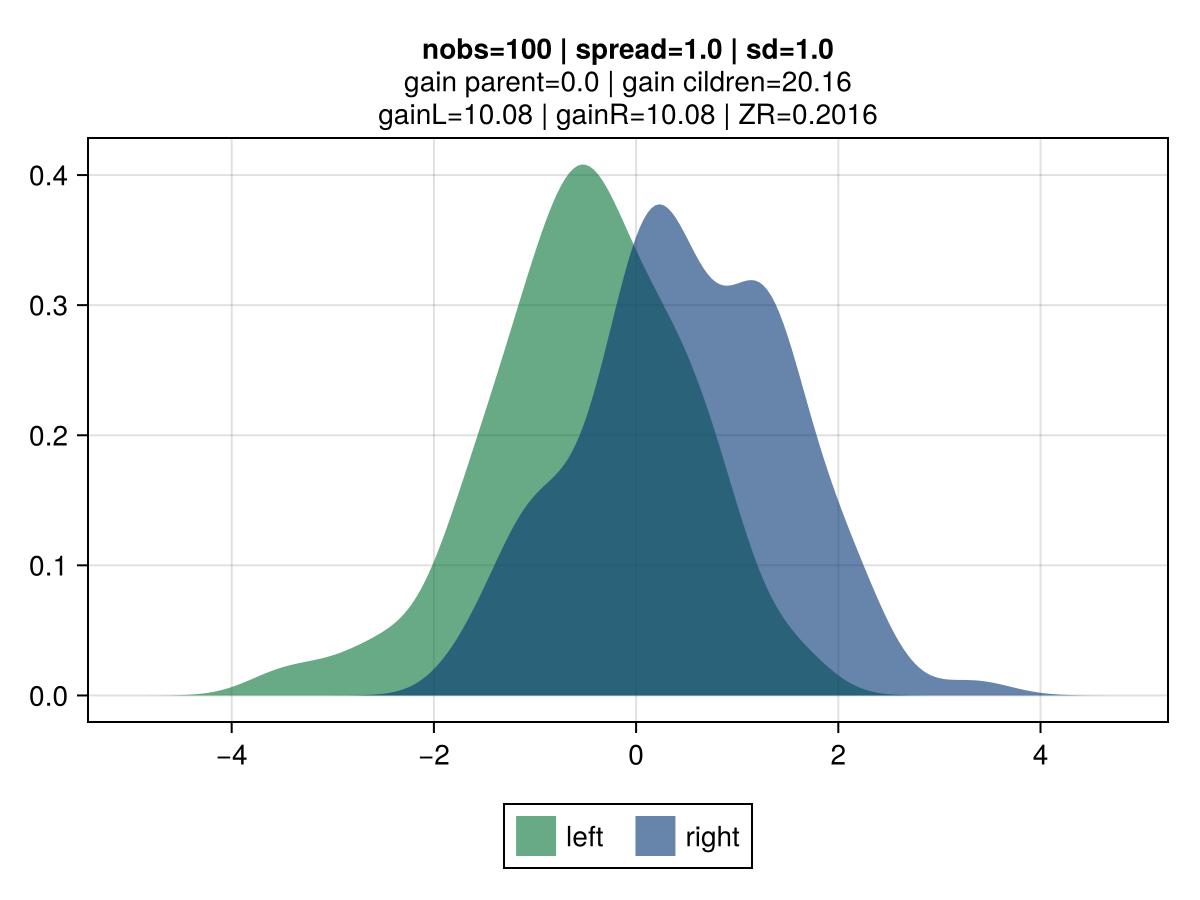
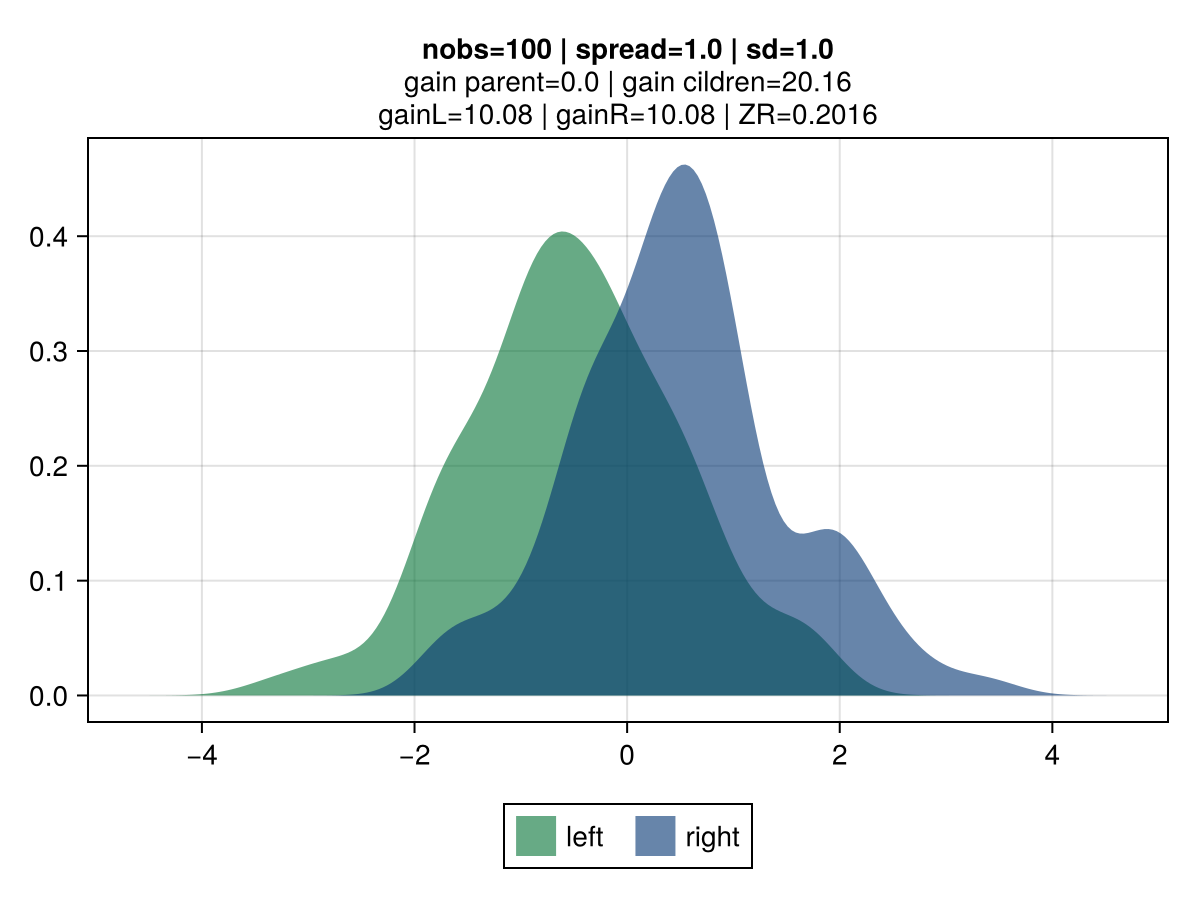
up

diff --git a/blog/cred/README.md b/blog/cred/README.md
@@ -27,6 +27,9 @@ Key concept is that the credibility associated with a set of observations is dri
  - **Variance of the Hypothetical Means (VHM)**: if large differences between candidates are expected, then a greater credibility will be assigned to that candidate.
  - **Expected Value of the Process Variance (EVPV)**: if the data generation process of a given candidate has a large volatility, a  smaller credibility will be assigned.
 
+The Buhlmann credibility states that the optimal linear posterior estimator of a group mean is:
+ - `Z * X̄ + (1 - Z) * μ`, where `X̄` is the group mean and `μ` the population mean.
+
 This approach results in a shift of perspective in how the gain is derived.
 Classical gradient based is about deriving a second-order approximation of the loss curve for a tre-split candidate.
 The gain corresponds to the reduction in this approximated loss by taking the prediciton that minimises the quadratic loss curve.
@@ -34,9 +37,10 @@ The gain corresponds to the reduction in this approximated loss by taking the pr
 The credibility-based takes a loss function agnostic approach, and view the gain as the total absolute change in the credibility-adjusted predicted value.
 Example, if a child has a mean residual of *2.0*, credibility of 0.5 and 100 observations, the resulting gain is: `2.0 * 0.5 * 100 = 100.0`, where `2.0 * 0.5` corresponds to the credibility adjusted prediction.
 
-VHM is estimated as the square of the mean of the spread between observed values and predictions: `mean(y - p)`.
-EVPV is estimated as the variance of the observations. This value can be derived from the aggregation of the first (`y - p`) and second (`(y - p)^2`) moment of the individual observations:
- - `EVPV = E[(x - μ)^2] = E[X^2] - E[X]^2
+VHM is estimated as the square of the mean of the spread between observed values and predictions:
+ - `VHM = E[X] = `mean(y - p)`
+EVPV is estimated as the variance of the observations. This value can be derived from the aggregation of the first and second moment of the individual observations:
+ - `EVPV = E[(x - μ)^2] = E[X^2] - E[X]^2`
 
 ### Credibility-based gains - credV1A
 Same as for the previous the gradient-based MSE error, the gain grows linearly with the number of observations, all other things being equal.
@@ -47,15 +51,6 @@ However, a smaller volatility results in an increased gain, as shown in 2nd vs 1
 |:----------------------:|:----------------------:|
 | ![](assets/dist-credV1A-2A.png) | ![](assets/dist-credV1A-2B.png) |
 | ![](assets/dist-credV1A-3A.png) | ![](assets/dist-credV1A-3B.png) |
-
-### Credibility-based gains - credV2A
-This approach is a variation where the credibility is computed from std deviation rather than variance measures.
-
-
-| ![](assets/dist-credV2A-1A.png) | ![](assets/dist-credV2A-1B.png) |
-|:----------------------:|:----------------------:|
-| ![](assets/dist-credV2A-2A.png) | ![](assets/dist-credV2A-2B.png) |
-| ![](assets/dist-credV2A-3A.png) | ![](assets/dist-credV2A-3B.png) |
 
 ## Credibility figures
 
